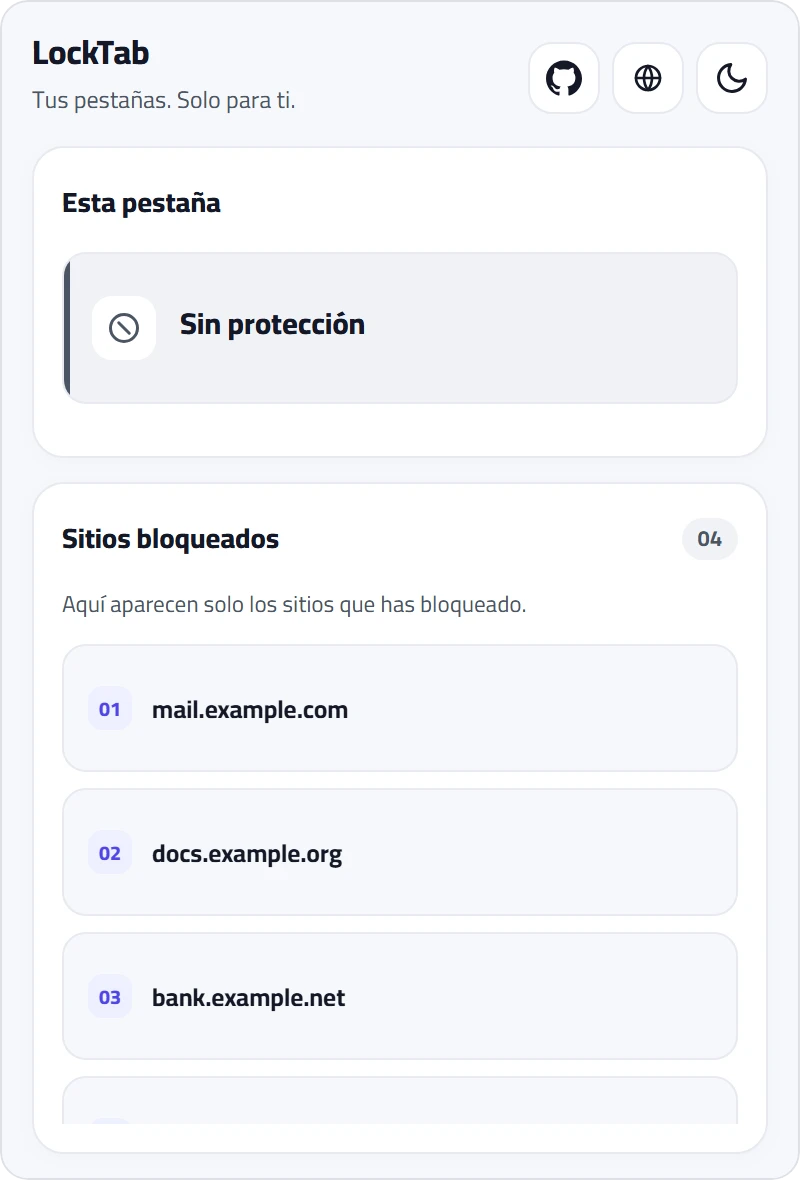
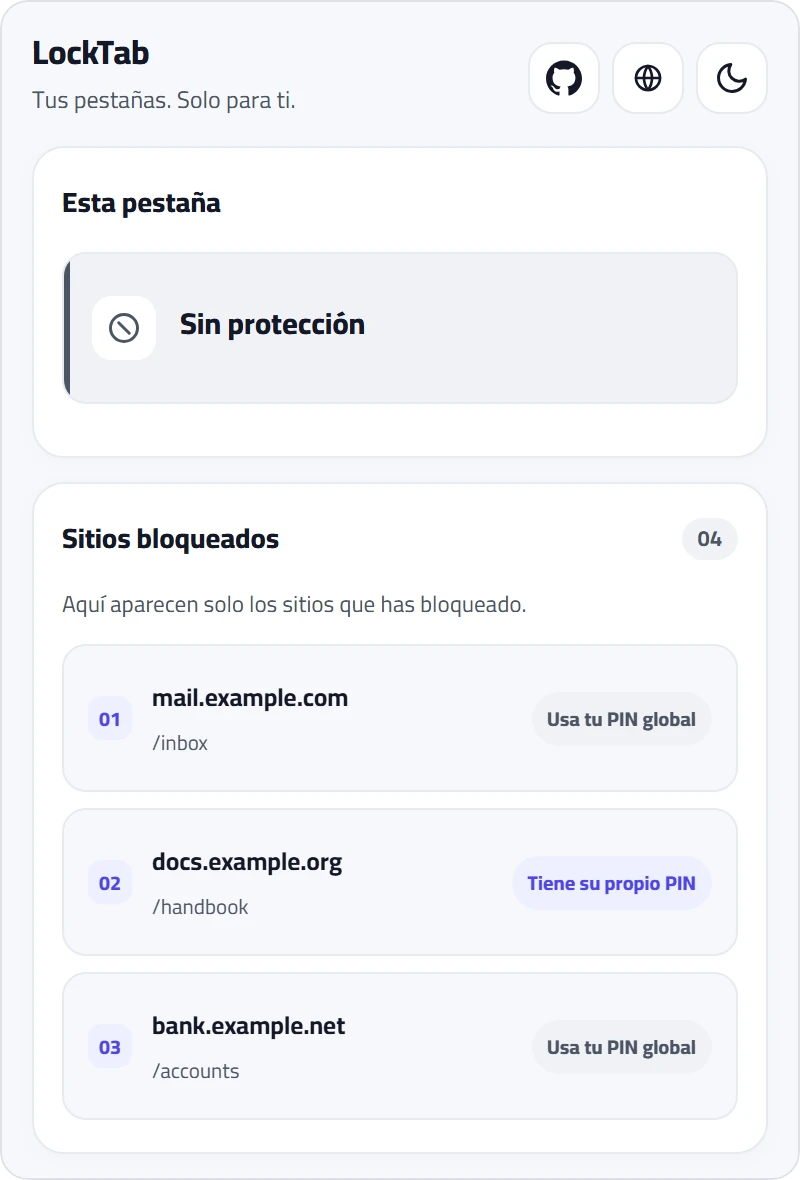
docs: correct locked-sites rows and reframe lock-screen captures
Render locked-site rows with the real three-column layout from popup.js (index, domain plus path, inherited/custom badge). Move the lock-screen capture closer and apply the transparent rounded-corner mask used by the other interface shots.

diff --git a/CHANGELOG.md b/CHANGELOG.md
@@ -19,6 +19,10 @@ project adheres to [Semantic Versioning](https://semver.org/spec/v2.0.0.html).
 - Wait for image decode and font readiness before capturing a banner instead of using a fixed delay, so a slow local decode cannot leave a blank frame.
 
 ### Fixed
+- Render locked-site rows exactly as the popup does: index, domain plus path, and the translated inherited/custom PIN badge, instead of a host-only approximation.
+- Bring the lock-screen capture closer and apply the same transparent rounded-corner mask used by the other interface shots.
+
+### Fixed
 - Localize the status label and PIN-match text in the screenshot fixture instead of falling back to English markup in translated captures.
 - Render the status icon and its translated label in every captured state; the empty and locked-sites shots previously showed an empty square.
 - Show the correct inherited-PIN state in the site card: the "uses your main PIN" badge with a single "set a site PIN" action, hiding the revert button that only exists once a custom PIN is set.
